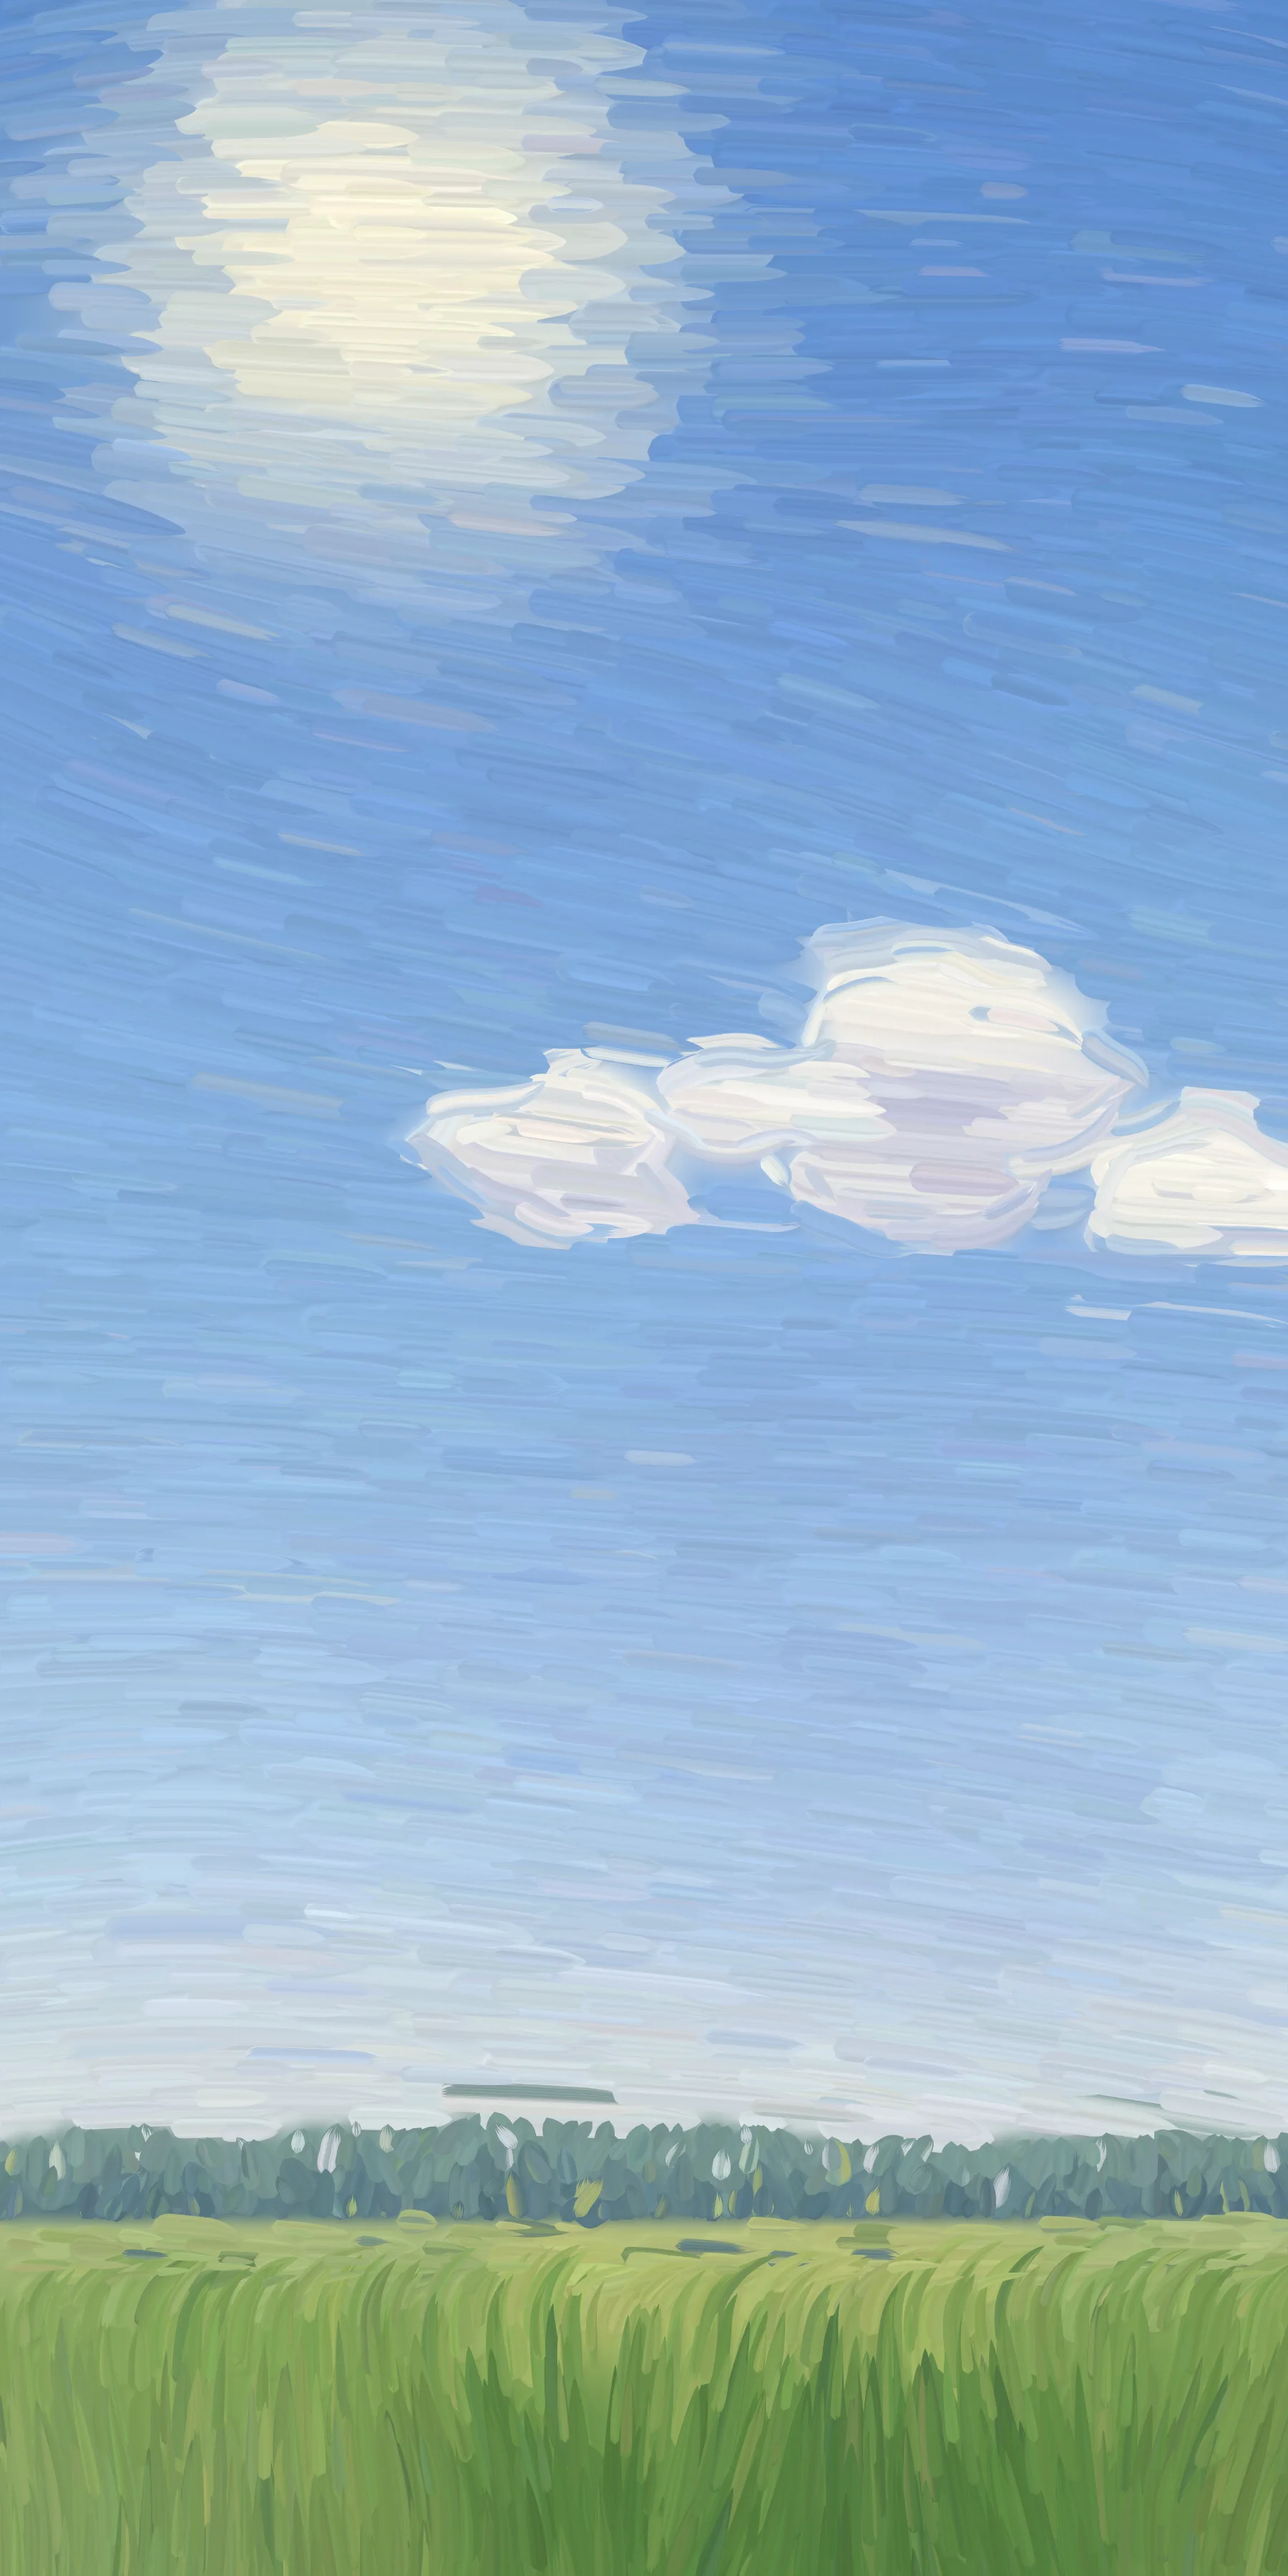
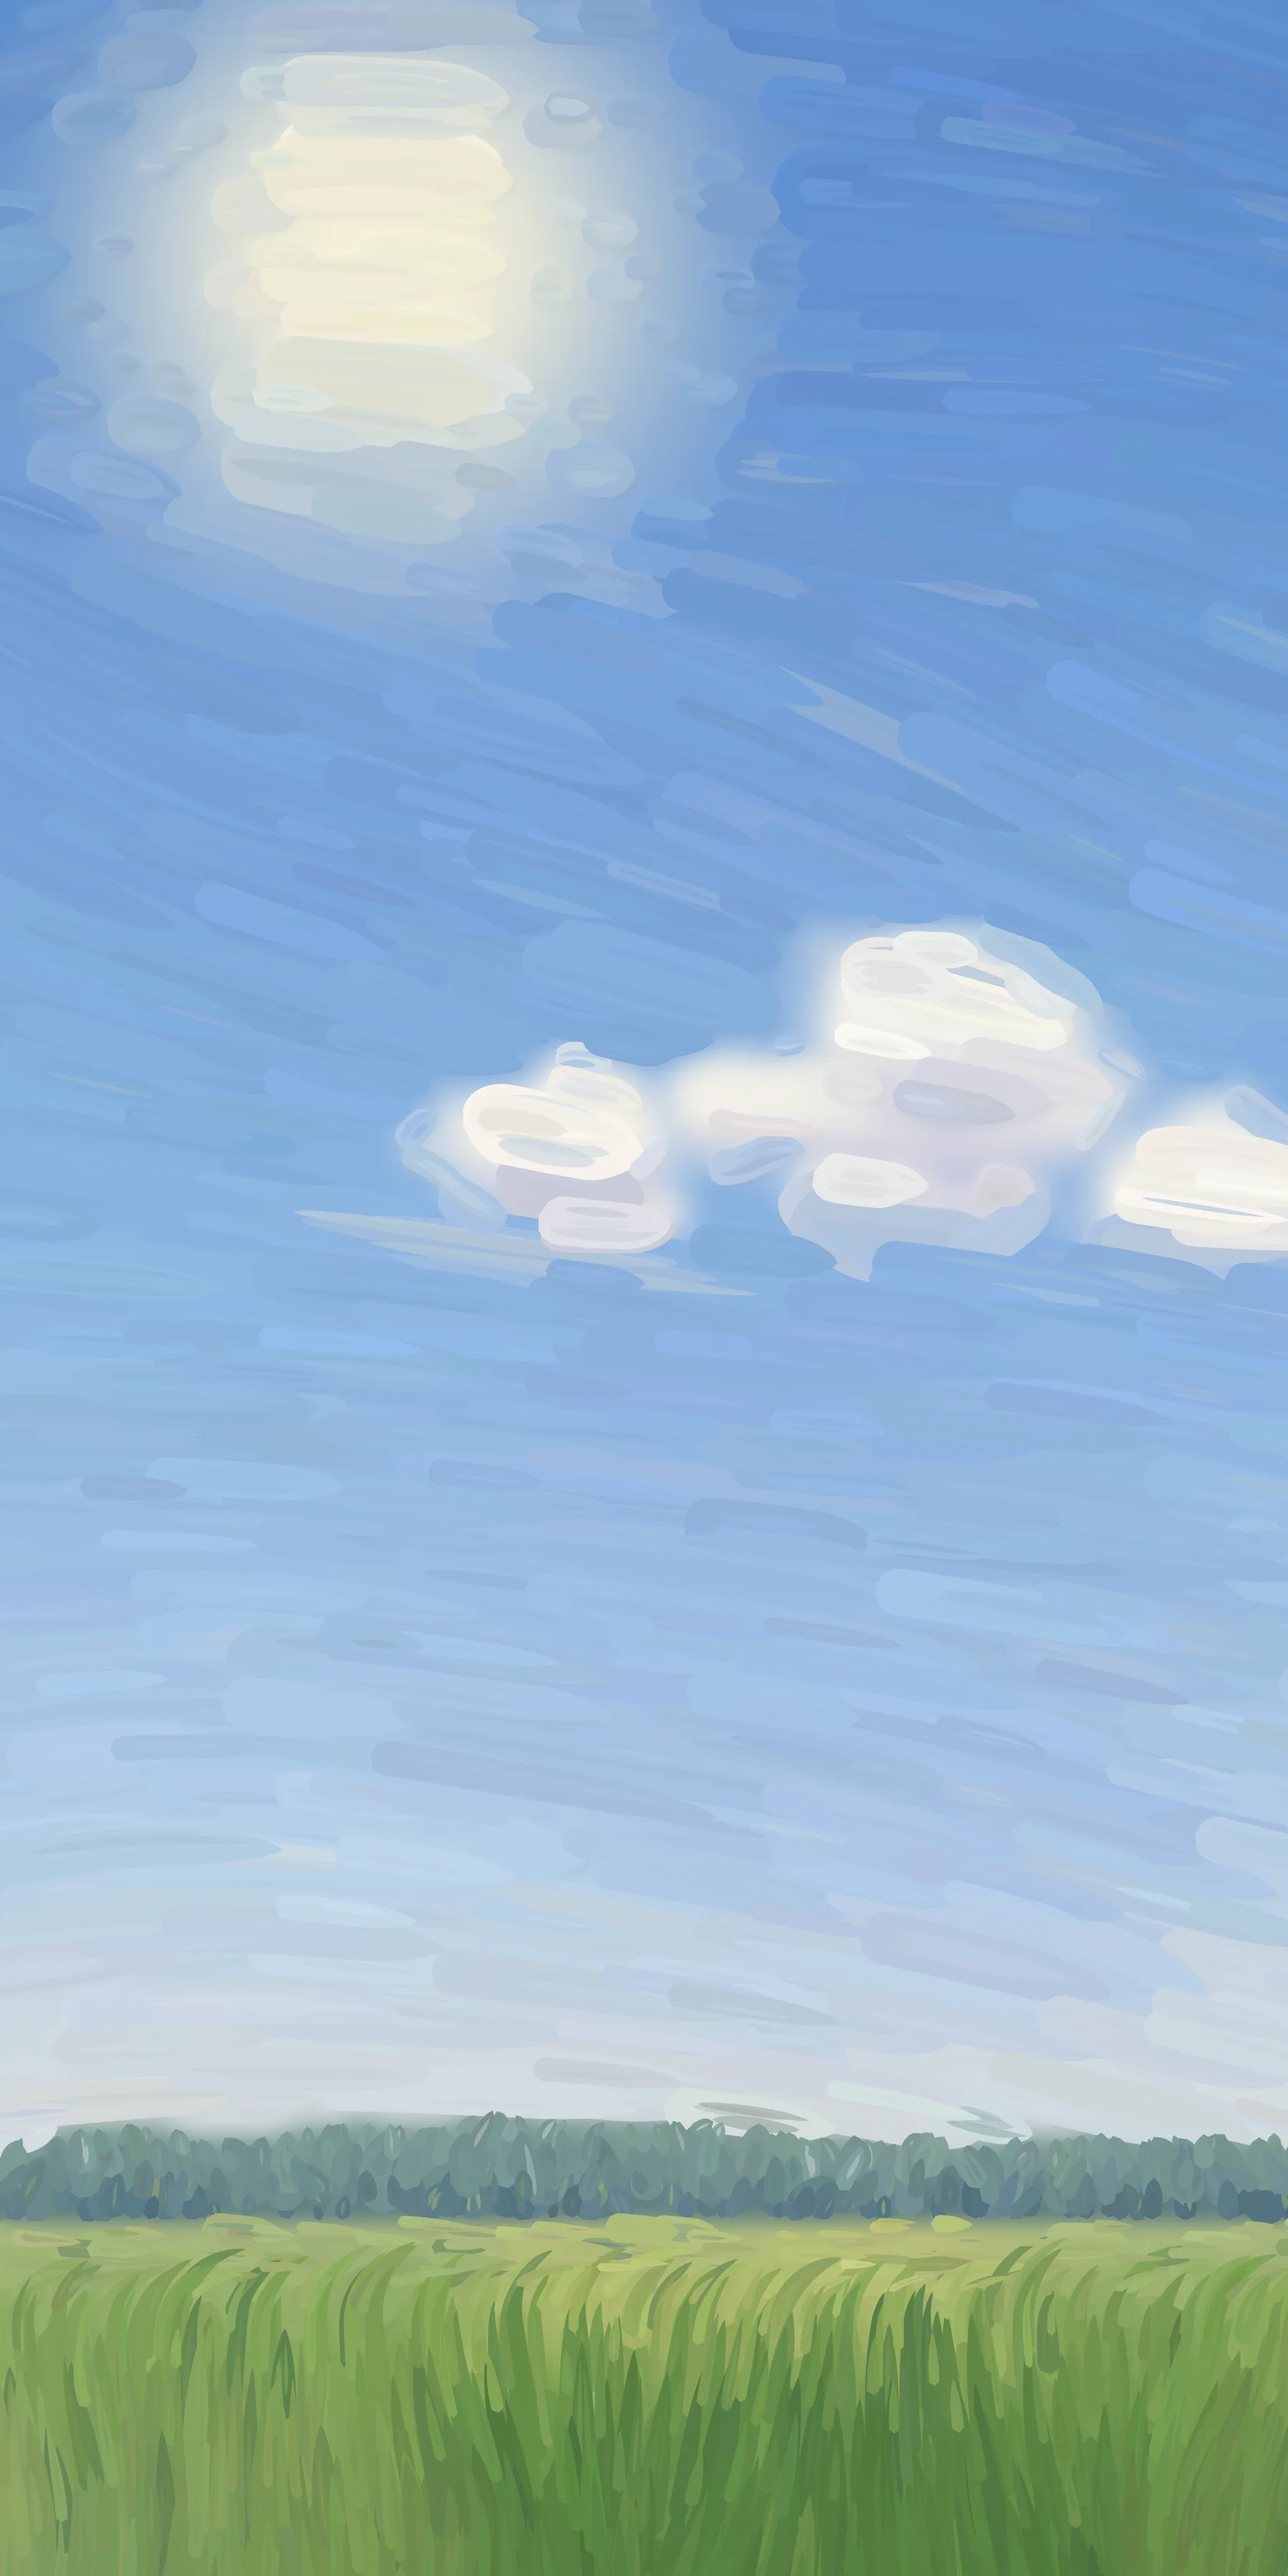
Go back to the softer sky, where the brush strokes only just show
Restores the first flowing pass: broad smooth marks with a few soft streaks
and gentle relief, instead of the fine bristle detail. Still painted at 1.5x,
and the gap along the bottom edge of the grass stays fixed.

Claude-Session: https://claude.ai/code/session_01S5nsxH29LjFnh61aq9Qqvj

diff --git a/background-src/paint.html b/background-src/paint.html
@@ -99,7 +99,7 @@ const wrap = a => Math.atan2(Math.sin(a), Math.cos(a));
 
 function paint(canvas, layoutName, opts) {
     const L = LAYOUTS[layoutName];
-    // Painted at 1.5x the nominal size so the brushwork stays crisp on high-density screens.
+    // Painted at 1.5x the nominal size so it stays sharp on high-density screens.
     const SS = 1.5, W = Math.round(L.w * SS), H = Math.round(L.h * SS), U = L.unit * SS;
     const lenK = opts.length, widK = opts.width;
     canvas.width = W; canvas.height = H;
@@ -184,7 +184,7 @@ function paint(canvas, layoutName, opts) {
     function angleAt(x, y, reg) {
         const X = x / U, Y = y / U;
         if (reg === 0) {
-            let a = -0.05 + (noise(X / 420, Y / 260, 2) - 0.5) * 1.15 + 0.1 * Math.sin(X / 230 + 3 * noise(X / 300, Y / 300, 1));
+            let a = -0.05 + (noise(X / 420, Y / 260, 2) - 0.5) * 1.5 + 0.1 * Math.sin(X / 230 + 3 * noise(X / 300, Y / 300, 1));
             const e = 5 * U;
             const gx = cloudAt(x + e, y)[0] - cloudAt(x - e, y)[0];
             const gy = cloudAt(x, y + e)[0] - cloudAt(x, y - e)[0];
@@ -221,7 +221,7 @@ function paint(canvas, layoutName, opts) {
         sctx.putImageData(img, 0, 0);
         ctx.imageSmoothingQuality = 'high';
         ctx.drawImage(small, 0, 0, W, H);   // unblurred first, so the blur's soft border never shows
-        ctx.filter = `blur(${2.5 * U}px)`;
+        ctx.filter = `blur(${4 * U}px)`;
         ctx.drawImage(small, 0, 0, W, H);
         ctx.filter = 'none';
     }
@@ -235,8 +235,7 @@ function paint(canvas, layoutName, opts) {
     // round where the brush touches down and lifting to a point, with a few soft streaks of
     // the brush's second colour dragged along inside it.
     function trace(x, y, reg, s, a, steps, step, c0) {
-        const out = [], in0 = reg === 0 && cloudAt(x, y)[0] > 0.4;
-        let over = -1;   // steps the brush carries on past an edge, so shapes overlap a little
+        const out = [];
         for (let i = 0; i < steps; i++) {
             const want = angleAt(x, y, reg) + (a.back ? Math.PI : 0);
             a.v += clamp(wrap(want - a.v), -0.05, 0.05);
@@ -244,11 +243,7 @@ function paint(canvas, layoutName, opts) {
             if (x < -60 * U || x > W + 60 * U || y < -60 * U || y > H + 60 * U) break;
             const r = region(x, y);
             if (r !== reg && !(reg === 2 && r === 1 && i < 3)) break;
-            if (over < 0 && reg === 0) {
-                const c = target(x, y);
-                if ((cloudAt(x, y)[0] > 0.4) !== in0 || Math.hypot(c[0] - c0[0], c[1] - c0[1], c[2] - c0[2]) > s.edge) over = 1 + ((rand() * 4) | 0);
-            }
-            if (over >= 0 && over-- === 0) break;
+            if (s.edge) { const c = target(x, y); if (Math.hypot(c[0] - c0[0], c[1] - c0[1], c[2] - c0[2]) > s.edge) break; }
             out.push([x, y]);
         }
         return out;
@@ -298,20 +293,19 @@ function paint(canvas, layoutName, opts) {
         hctx.globalAlpha = 0.95; hctx.fillStyle = grey(base); hctx.fill();
         // Paint pushed up along the sides of the mark.
         hctx.globalAlpha = 0.35; hctx.strokeStyle = grey(base + 0.22); hctx.lineWidth = 1.4 * U; hctx.lineJoin = 'round'; hctx.stroke();
-        // Bristles: fine streaks across the whole mark. Neighbours carry nearly the same
-        // paint, each leaves its own furrow, and they run dry at different points of the tail.
-        const ns = clamp(Math.round(hwMax / (0.6 * U)), 3, 28), loadSeed = rand() * 100;
+        // Streaks: the second colour, and the furrows the bristles leave.
+        const ns = clamp(Math.round(hwMax / (2.6 * U)), 1, 5);
         for (let j = 0; j < ns; j++) {
-            const f = ((j + 0.5) / ns * 2 - 1) * 0.9, e2 = f * f;
-            const i0 = Math.round(N * (0.01 + 0.1 * e2 * rand())), i1 = Math.round(N * (1 - (s.dry || 0.22) * rand() ** 1.5 - 0.1 * e2 * rand()));
+            const i0 = Math.round(N * R(0.02, 0.3)), i1 = Math.round(N * R(0.65, 0.97));
             if (i1 - i0 < 3) continue;
-            const off = (i) => hw(i) * f, wf = 1.25 / ns;
-            const shw = (i) => Math.max(0.35 * U, hw(i) * wf) * Math.min(1, (i - i0) / 2, (i1 - i) / 3);
-            const v = 1 + gauss() * 0.022, c = mix(c1, c2, smooth(0.3, 0.7, noise(loadSeed, j * 0.4, 1)));
+            const f = ((j + 0.5) / ns - 0.5) * 1.5 + gauss() * 0.1, wf = R(0.16, 0.34);
+            const off = (i) => hw(i) * f * 0.8;
+            const shw = (i) => hw(i) * wf * Math.sqrt(Math.max(0, Math.sin(Math.PI * (i - i0) / (i1 - i0))));
+            const v = 1 + gauss() * 0.02, c = mix(c1, c2, R(0.35, 1));
             ribbon(ctx, pts, nrm, i0, i1, off, shw);
-            ctx.globalAlpha = 0.8; ctx.fillStyle = css([c[0] * v, c[1] * v, c[2] * v]); ctx.fill();
+            ctx.globalAlpha = R(0.35, 0.7); ctx.fillStyle = css([c[0] * v, c[1] * v, c[2] * v]); ctx.fill();
             ribbon(hctx, pts, nrm, i0, i1, off, shw);
-            hctx.globalAlpha = 0.85; hctx.fillStyle = grey(base + R(-0.2, 0.24) + 0.12 * e2); hctx.fill();
+            hctx.globalAlpha = 0.6; hctx.fillStyle = grey(base + R(-0.14, 0.16)); hctx.fill();
         }
         ctx.globalAlpha = hctx.globalAlpha = 1;
     }
@@ -342,15 +336,15 @@ function paint(canvas, layoutName, opts) {
     }
 
     const sky = { accents: SKY_ACCENTS };
-    layer(0, { ...sky, len: [70, 150], wid: [12, 18], cover: 1.9, jitter: 0.012, accent: 0.06, edge: 0.13, tail: 0.3 });
-    layer(0, { ...sky, len: [40, 90], wid: [8, 12], cover: 1.3, jitter: 0.016, accent: 0.2, edge: 0.1, tail: 0.35 });
-    layer(0, { ...sky, len: [20, 50], wid: [5, 7], cover: 0.4, jitter: 0.02, accent: 0.3, edge: 0.08, tail: 0.4 });
+    layer(0, { ...sky, len: [110, 220], wid: [22, 34], cover: 1.8, jitter: 0.012, accent: 0.06, edge: 0.075, tail: 0.3 });
+    layer(0, { ...sky, len: [60, 130], wid: [12, 19], cover: 1.2, jitter: 0.016, accent: 0.2, edge: 0.05, tail: 0.35 });
+    layer(0, { ...sky, len: [30, 70], wid: [6, 10], cover: 0.2, jitter: 0.02, accent: 0.35, edge: 0.04, tail: 0.4 });
     const tr = { accents: GRASS_ACCENTS, spread: 0.3 };
     layer(1, { ...tr, len: [14, 30], wid: [10, 15], cover: 2.4, jitter: 0.03, accent: 0.08, tail: 0.4 });
     layer(1, { ...tr, len: [9, 20], wid: [5, 8], cover: 0.8, jitter: 0.035, accent: 0.12, tail: 0.5 });
     const gr = { accents: GRASS_ACCENTS };
     layer(2, { ...gr, len: [34, 70], wid: [14, 22], cover: 1.9, jitter: 0.02, accent: 0.08, grow: 0.6, tail: 0.4 });
-    layer(2, { ...gr, len: [26, 56], wid: [5.5, 9.5], cover: 1.5, jitter: 0.03, accent: 0.22, grow: 0.9, taper: 0.3, tail: 0.65, shade: 0.12, fromBase: true, spread: 0.1 });
+    layer(2, { ...gr, len: [26, 56], wid: [5.5, 9.5], cover: 1.5, jitter: 0.03, accent: 0.22, grow: 0.9, taper: 0.3, tail: 0.65, shade: 0.18, fromBase: true, spread: 0.1 });
     layer(2, { ...gr, len: [16, 36], wid: [3.2, 5], cover: 0.35, jitter: 0.04, accent: 0.45, grow: 1, taper: 0.3, tail: 0.7, fromBase: true, spread: 0.14 });
 
     // ---- light the paint from the upper left ----
@@ -359,7 +353,7 @@ function paint(canvas, layoutName, opts) {
         const hb = document.createElement('canvas');
         hb.width = W; hb.height = H;
         const hbx = hb.getContext('2d');
-        hbx.filter = `blur(${0.8 * U}px)`;
+        hbx.filter = `blur(${1.3 * U}px)`;
         hbx.drawImage(hc, 0, 0);
         const hd = hbx.getImageData(0, 0, W, H).data;
         const id = ctx.getImageData(0, 0, W, H);
@@ -379,7 +373,7 @@ function paint(canvas, layoutName, opts) {
                 const gy = (hd[k + W * 4] - hd[k - W * 4]) + 5 * (weave(x, y + 1) - weave(x, y - 1));
                 const nx = -gx * s, ny = -gy * s, nl = Math.sqrt(nx * nx + ny * ny + 1);
                 const diff = (nx * lx + ny * ly + lz) / (nl * ll);
-                const shade = 1 + 0.55 * (diff - lz / ll);
+                const shade = 1 + 0.36 * (diff - lz / ll);
                 const spec = Math.pow(clamp((nx * hx + ny * hy + hz) / (nl * hl), 0, 1), 36) * 7 * imp;
                 d[k] = d[k] * shade + spec; d[k + 1] = d[k + 1] * shade + spec; d[k + 2] = d[k + 2] * shade + spec;
             }

diff --git a/index.html b/index.html
@@ -32,12 +32,12 @@
 
     <link rel="icon" href="assets/logo.svg?v=20261030" type="image/svg+xml">
     <link rel="apple-touch-icon" href="assets/chase.png">
-    <link rel="preload" as="image" href="assets/sky-wide.webp?v=20261110-flow2" media="(min-aspect-ratio: 4/5)" fetchpriority="high">
-    <link rel="preload" as="image" href="assets/sky-tall.webp?v=20261110-flow2" media="(max-aspect-ratio: 4/5)" fetchpriority="high">
+    <link rel="preload" as="image" href="assets/sky-wide.webp?v=20261110-soft" media="(min-aspect-ratio: 4/5)" fetchpriority="high">
+    <link rel="preload" as="image" href="assets/sky-tall.webp?v=20261110-soft" media="(max-aspect-ratio: 4/5)" fetchpriority="high">
     <link rel="preconnect" href="https://fonts.googleapis.com">
     <link rel="preconnect" href="https://fonts.gstatic.com" crossorigin>
     <link href="https://fonts.googleapis.com/css2?family=EB+Garamond:wght@400;500&family=Fraunces:ital,opsz,wght,SOFT,WONK@1,9..144,600,100,1&display=swap" rel="stylesheet">
-    <link rel="stylesheet" href="home.css?v=20261110-flow2">
+    <link rel="stylesheet" href="home.css?v=20261110-soft">
     <script type="importmap">{ "imports": { "three": "https://cdn.jsdelivr.net/npm/three@0.186.1/build/three.module.js" } }</script>
     <script type="module" src="sunflower/sunflower.js?v=20261110"></script>
     <script type="application/ld+json">

diff --git a/home.css b/home.css
@@ -24,10 +24,10 @@ body {
     font-size: 1.1875rem;
     line-height: 1.45;
     -webkit-font-smoothing: antialiased;
-    background: #8fb6db url("assets/sky-wide.webp?v=20261110-flow2") center 75% / cover no-repeat;
+    background: #8fb6db url("assets/sky-wide.webp?v=20261110-soft") center 75% / cover no-repeat;
 }
 @media (max-aspect-ratio: 4/5) {
-    body { background-image: url("assets/sky-tall.webp?v=20261110-flow2"); background-position: center bottom; }
+    body { background-image: url("assets/sky-tall.webp?v=20261110-soft"); background-position: center bottom; }
 }
 a { color: inherit; text-decoration: none; }
 a:hover { color: var(--sun); }
